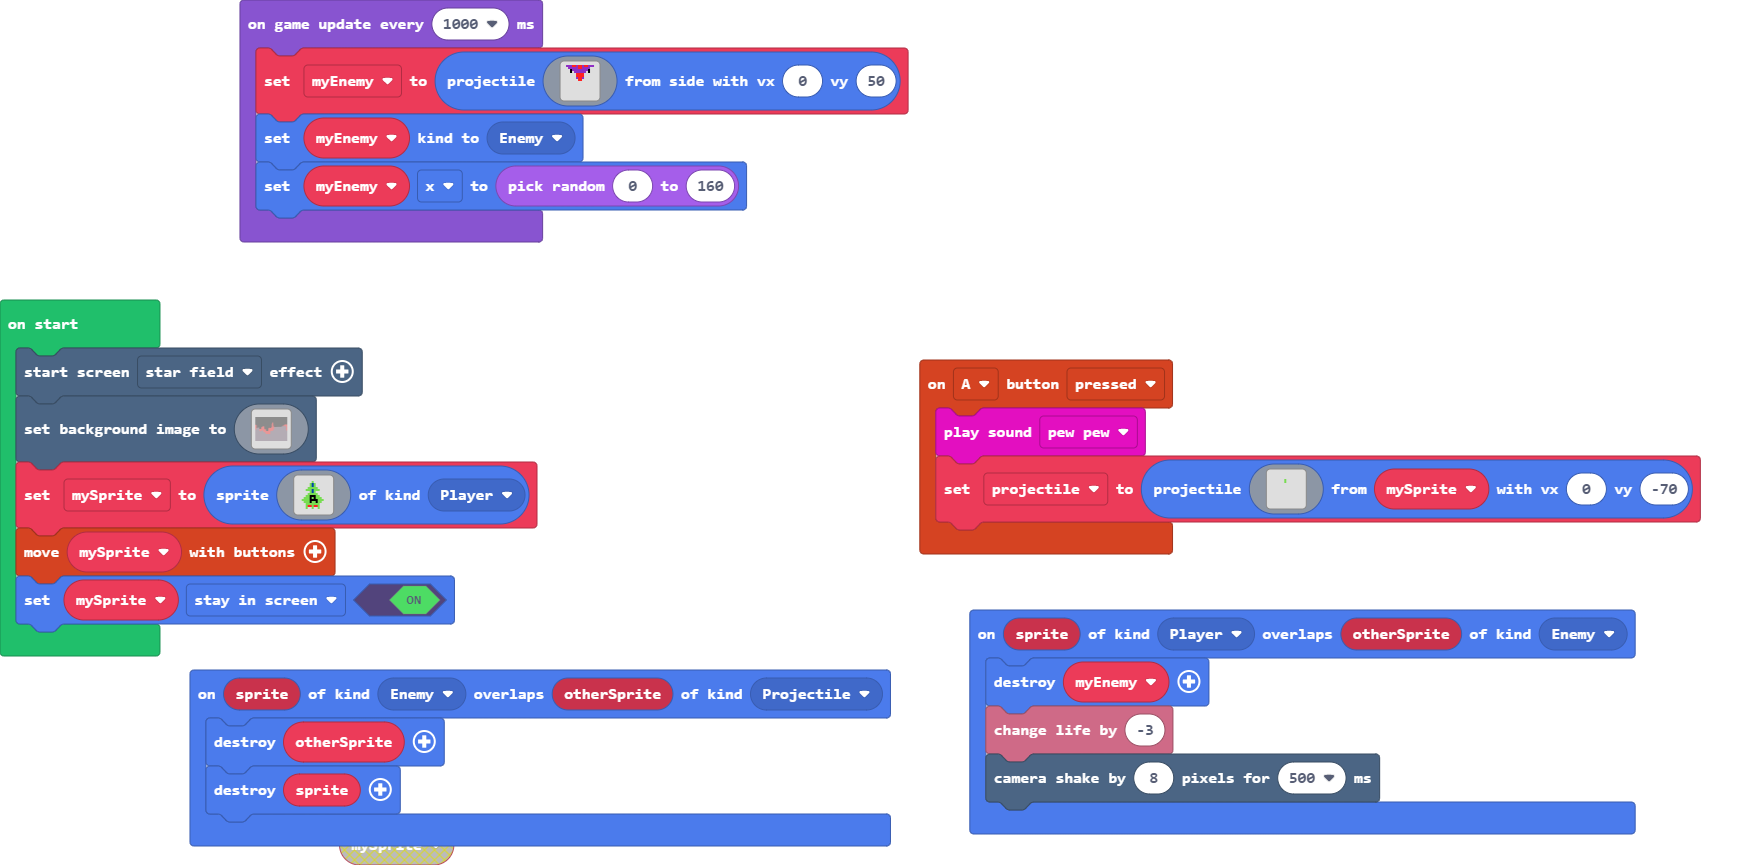
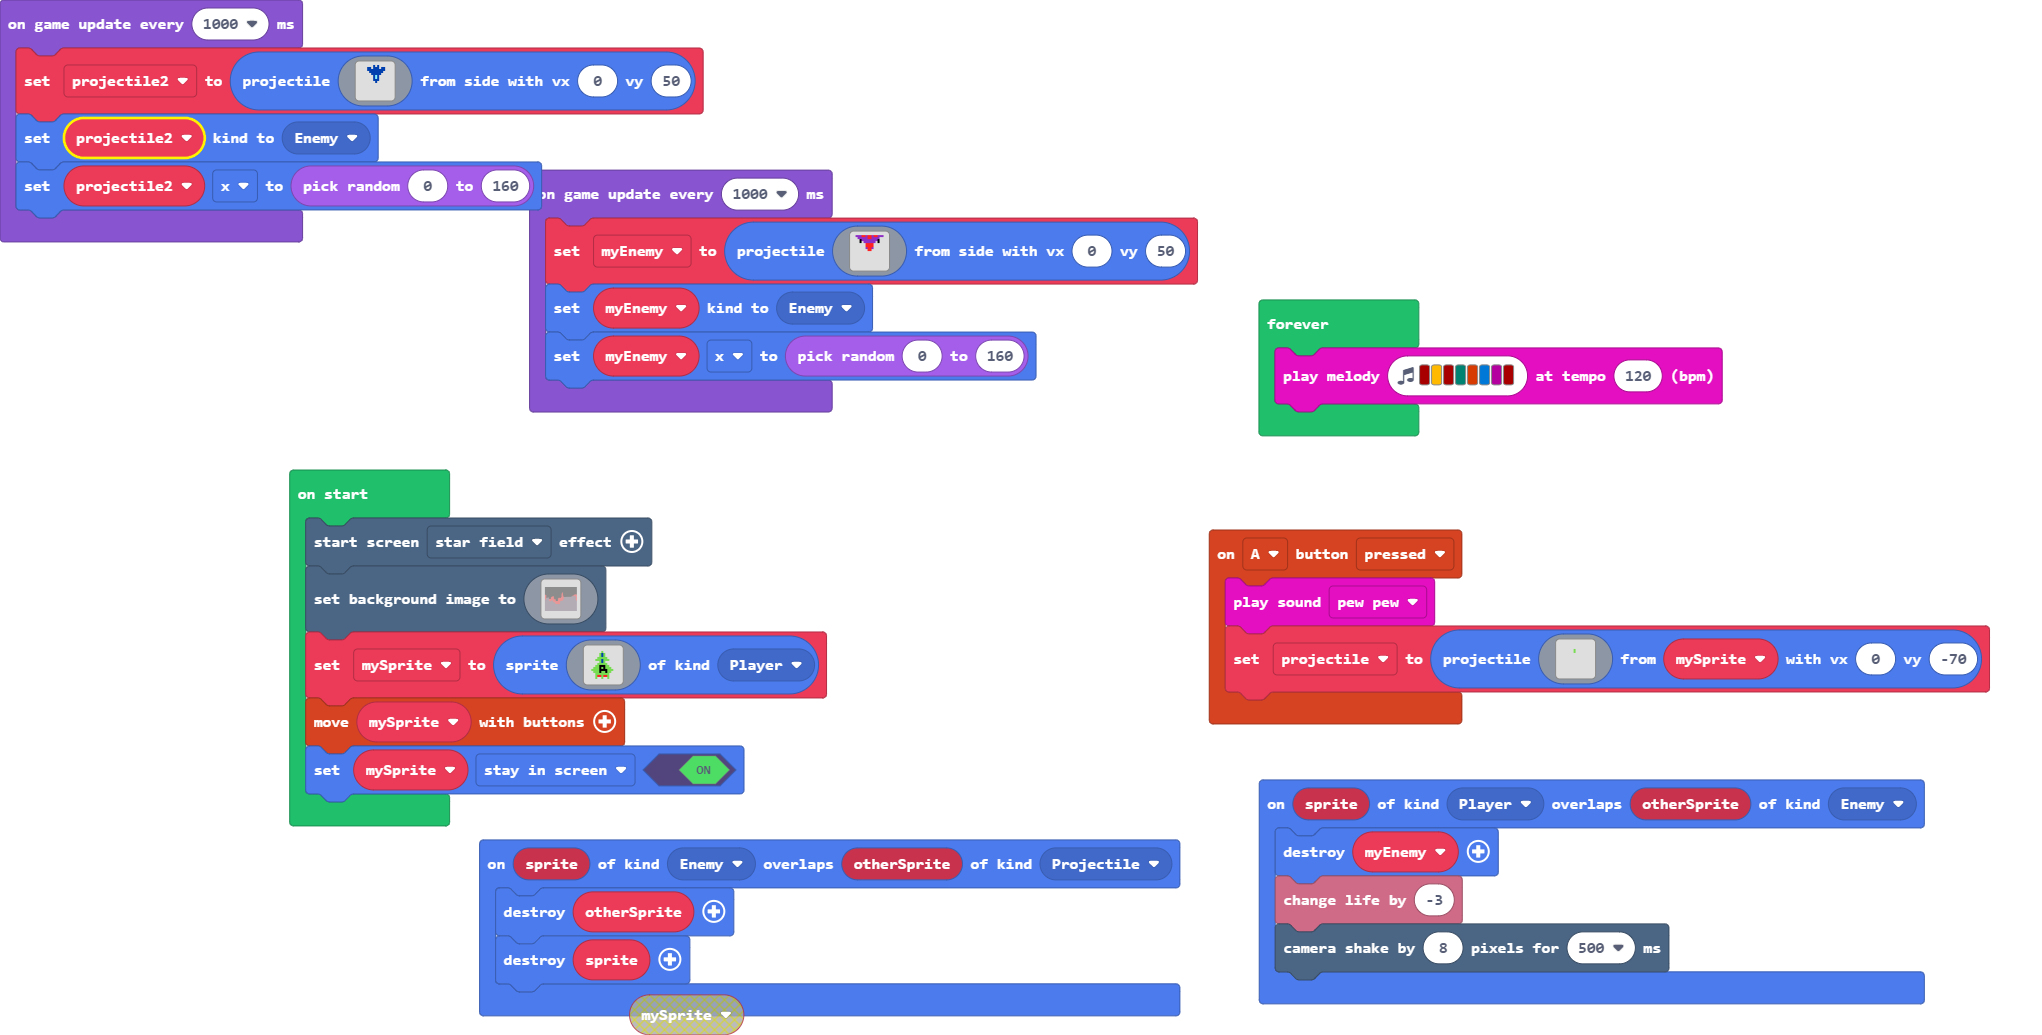
added blue ships

diff --git a/main.ts b/main.ts
@@ -28,6 +28,7 @@ sprites.onOverlap(SpriteKind.Player, SpriteKind.Enemy, function (sprite, otherSp
     info.changeLifeBy(-3)
     scene.cameraShake(8, 500)
 })
+let projectile2: Sprite = null
 let myEnemy: Sprite = null
 let projectile: Sprite = null
 let mySprite: Sprite = null
@@ -175,6 +176,28 @@ mySprite = sprites.create(img`
 controller.moveSprite(mySprite)
 mySprite.setFlag(SpriteFlag.StayInScreen, true)
 game.onUpdateInterval(1000, function () {
+    projectile2 = sprites.createProjectileFromSide(img`
+        . . . . . . . 8 . 8 . . . . . . 
+        . . . . 8 8 . 8 8 8 . 8 8 . . . 
+        . . . . 8 8 8 8 8 8 8 8 8 . . . 
+        . . . . . 8 8 8 8 8 8 8 . . . . 
+        . . . . . . 8 8 8 8 8 . . . . . 
+        . . . . . . . 8 9 8 . . . . . . 
+        . . . . . . . 8 9 8 . . . . . . 
+        . . . . . . . 8 8 8 . . . . . . 
+        . . . . . . . . 8 . . . . . . . 
+        . . . . . . . . . . . . . . . . 
+        . . . . . . . . . . . . . . . . 
+        . . . . . . . . . . . . . . . . 
+        . . . . . . . . . . . . . . . . 
+        . . . . . . . . . . . . . . . . 
+        . . . . . . . . . . . . . . . . 
+        . . . . . . . . . . . . . . . . 
+        `, 0, 50)
+    projectile2.setKind(SpriteKind.Enemy)
+    projectile2.x = randint(0, 160)
+})
+game.onUpdateInterval(1000, function () {
     myEnemy = sprites.createProjectileFromSide(img`
         . a a a 2 2 a 2 2 a 2 2 a a a . 
         . . a a a a a 2 2 a a a a . . . 
@@ -195,4 +218,7 @@ game.onUpdateInterval(1000, function () {
         `, 0, 50)
     myEnemy.setKind(SpriteKind.Enemy)
     myEnemy.x = randint(0, 160)
+})
+forever(function () {
+    music.playMelody("C5 A C5 F B E C C5 ", 120)
 })
